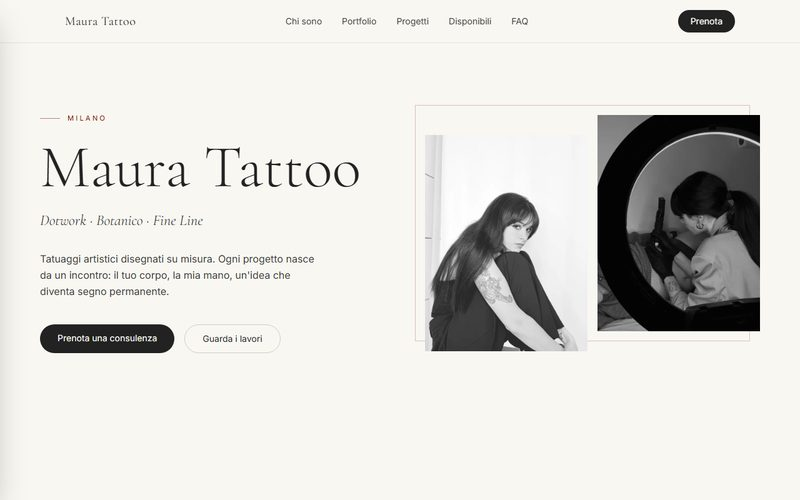
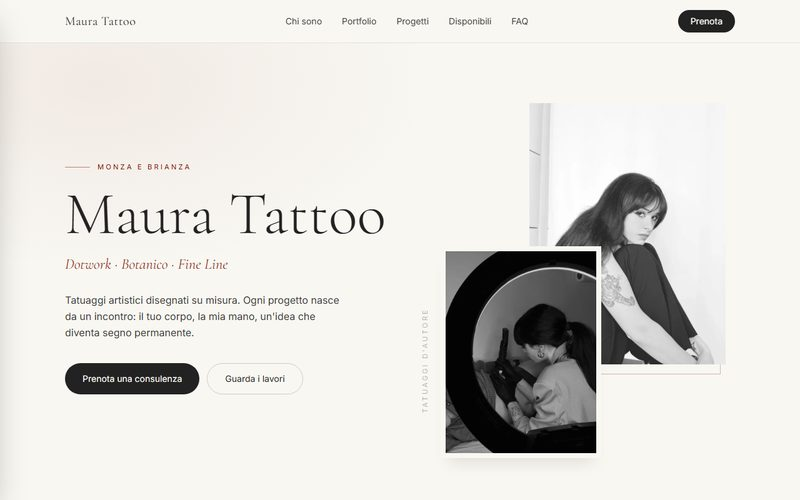
Siti web: aggiornata anteprima Maura + aggiunti 4 nuovi modelli in vetrina (Wedding, Dentista, Caffetteria, Autofficina)

diff --git a/progetti/siti-web/index.html b/progetti/siti-web/index.html
@@ -357,6 +357,42 @@
               <span class="sw-show-foot"><span class="sw-show-link">Anteprima ↗</span></span>
             </span>
           </a>
+          <a class="sw-show-card" href="https://wedding-atelier-site.vercel.app" target="_blank" rel="noopener">
+            <span class="sw-show-thumb"><img src="pronti/wedding.jpg" alt="Anteprima del modello di sito per wedding ed event planner" loading="lazy"></span>
+            <span class="sw-show-body">
+              <span class="sw-show-cat">Wedding / Eventi</span>
+              <span class="sw-show-title">Atelier</span>
+              <span class="sw-show-desc">Servizi, portfolio eventi, come lavori e richiesta.</span>
+              <span class="sw-show-foot"><span class="sw-show-link">Anteprima ↗</span></span>
+            </span>
+          </a>
+          <a class="sw-show-card" href="https://studio-dentistico-site.vercel.app" target="_blank" rel="noopener">
+            <span class="sw-show-thumb"><img src="pronti/dentista.jpg" alt="Anteprima del modello di sito per studio dentistico" loading="lazy"></span>
+            <span class="sw-show-body">
+              <span class="sw-show-cat">Studio dentistico</span>
+              <span class="sw-show-title">Sorriso</span>
+              <span class="sw-show-desc">Servizi, team, prima visita e prenotazione.</span>
+              <span class="sw-show-foot"><span class="sw-show-link">Anteprima ↗</span></span>
+            </span>
+          </a>
+          <a class="sw-show-card" href="https://caffetteria-aroma-site.vercel.app" target="_blank" rel="noopener">
+            <span class="sw-show-thumb"><img src="pronti/caffetteria.jpg" alt="Anteprima del modello di sito per bar e caffetteria" loading="lazy"></span>
+            <span class="sw-show-body">
+              <span class="sw-show-cat">Bar / Caffetteria</span>
+              <span class="sw-show-title">Aroma</span>
+              <span class="sw-show-desc">Menù, colazioni, ambiente e orari.</span>
+              <span class="sw-show-foot"><span class="sw-show-link">Anteprima ↗</span></span>
+            </span>
+          </a>
+          <a class="sw-show-card" href="https://autofficina-motori-site.vercel.app" target="_blank" rel="noopener">
+            <span class="sw-show-thumb"><img src="pronti/autofficina.jpg" alt="Anteprima del modello di sito per autofficina" loading="lazy"></span>
+            <span class="sw-show-body">
+              <span class="sw-show-cat">Autofficina / Meccanico</span>
+              <span class="sw-show-title">Motori</span>
+              <span class="sw-show-desc">Servizi, gomme, diagnosi e prenotazione.</span>
+              <span class="sw-show-foot"><span class="sw-show-link">Anteprima ↗</span></span>
+            </span>
+          </a>
         </div>
       </div>
     </section>
